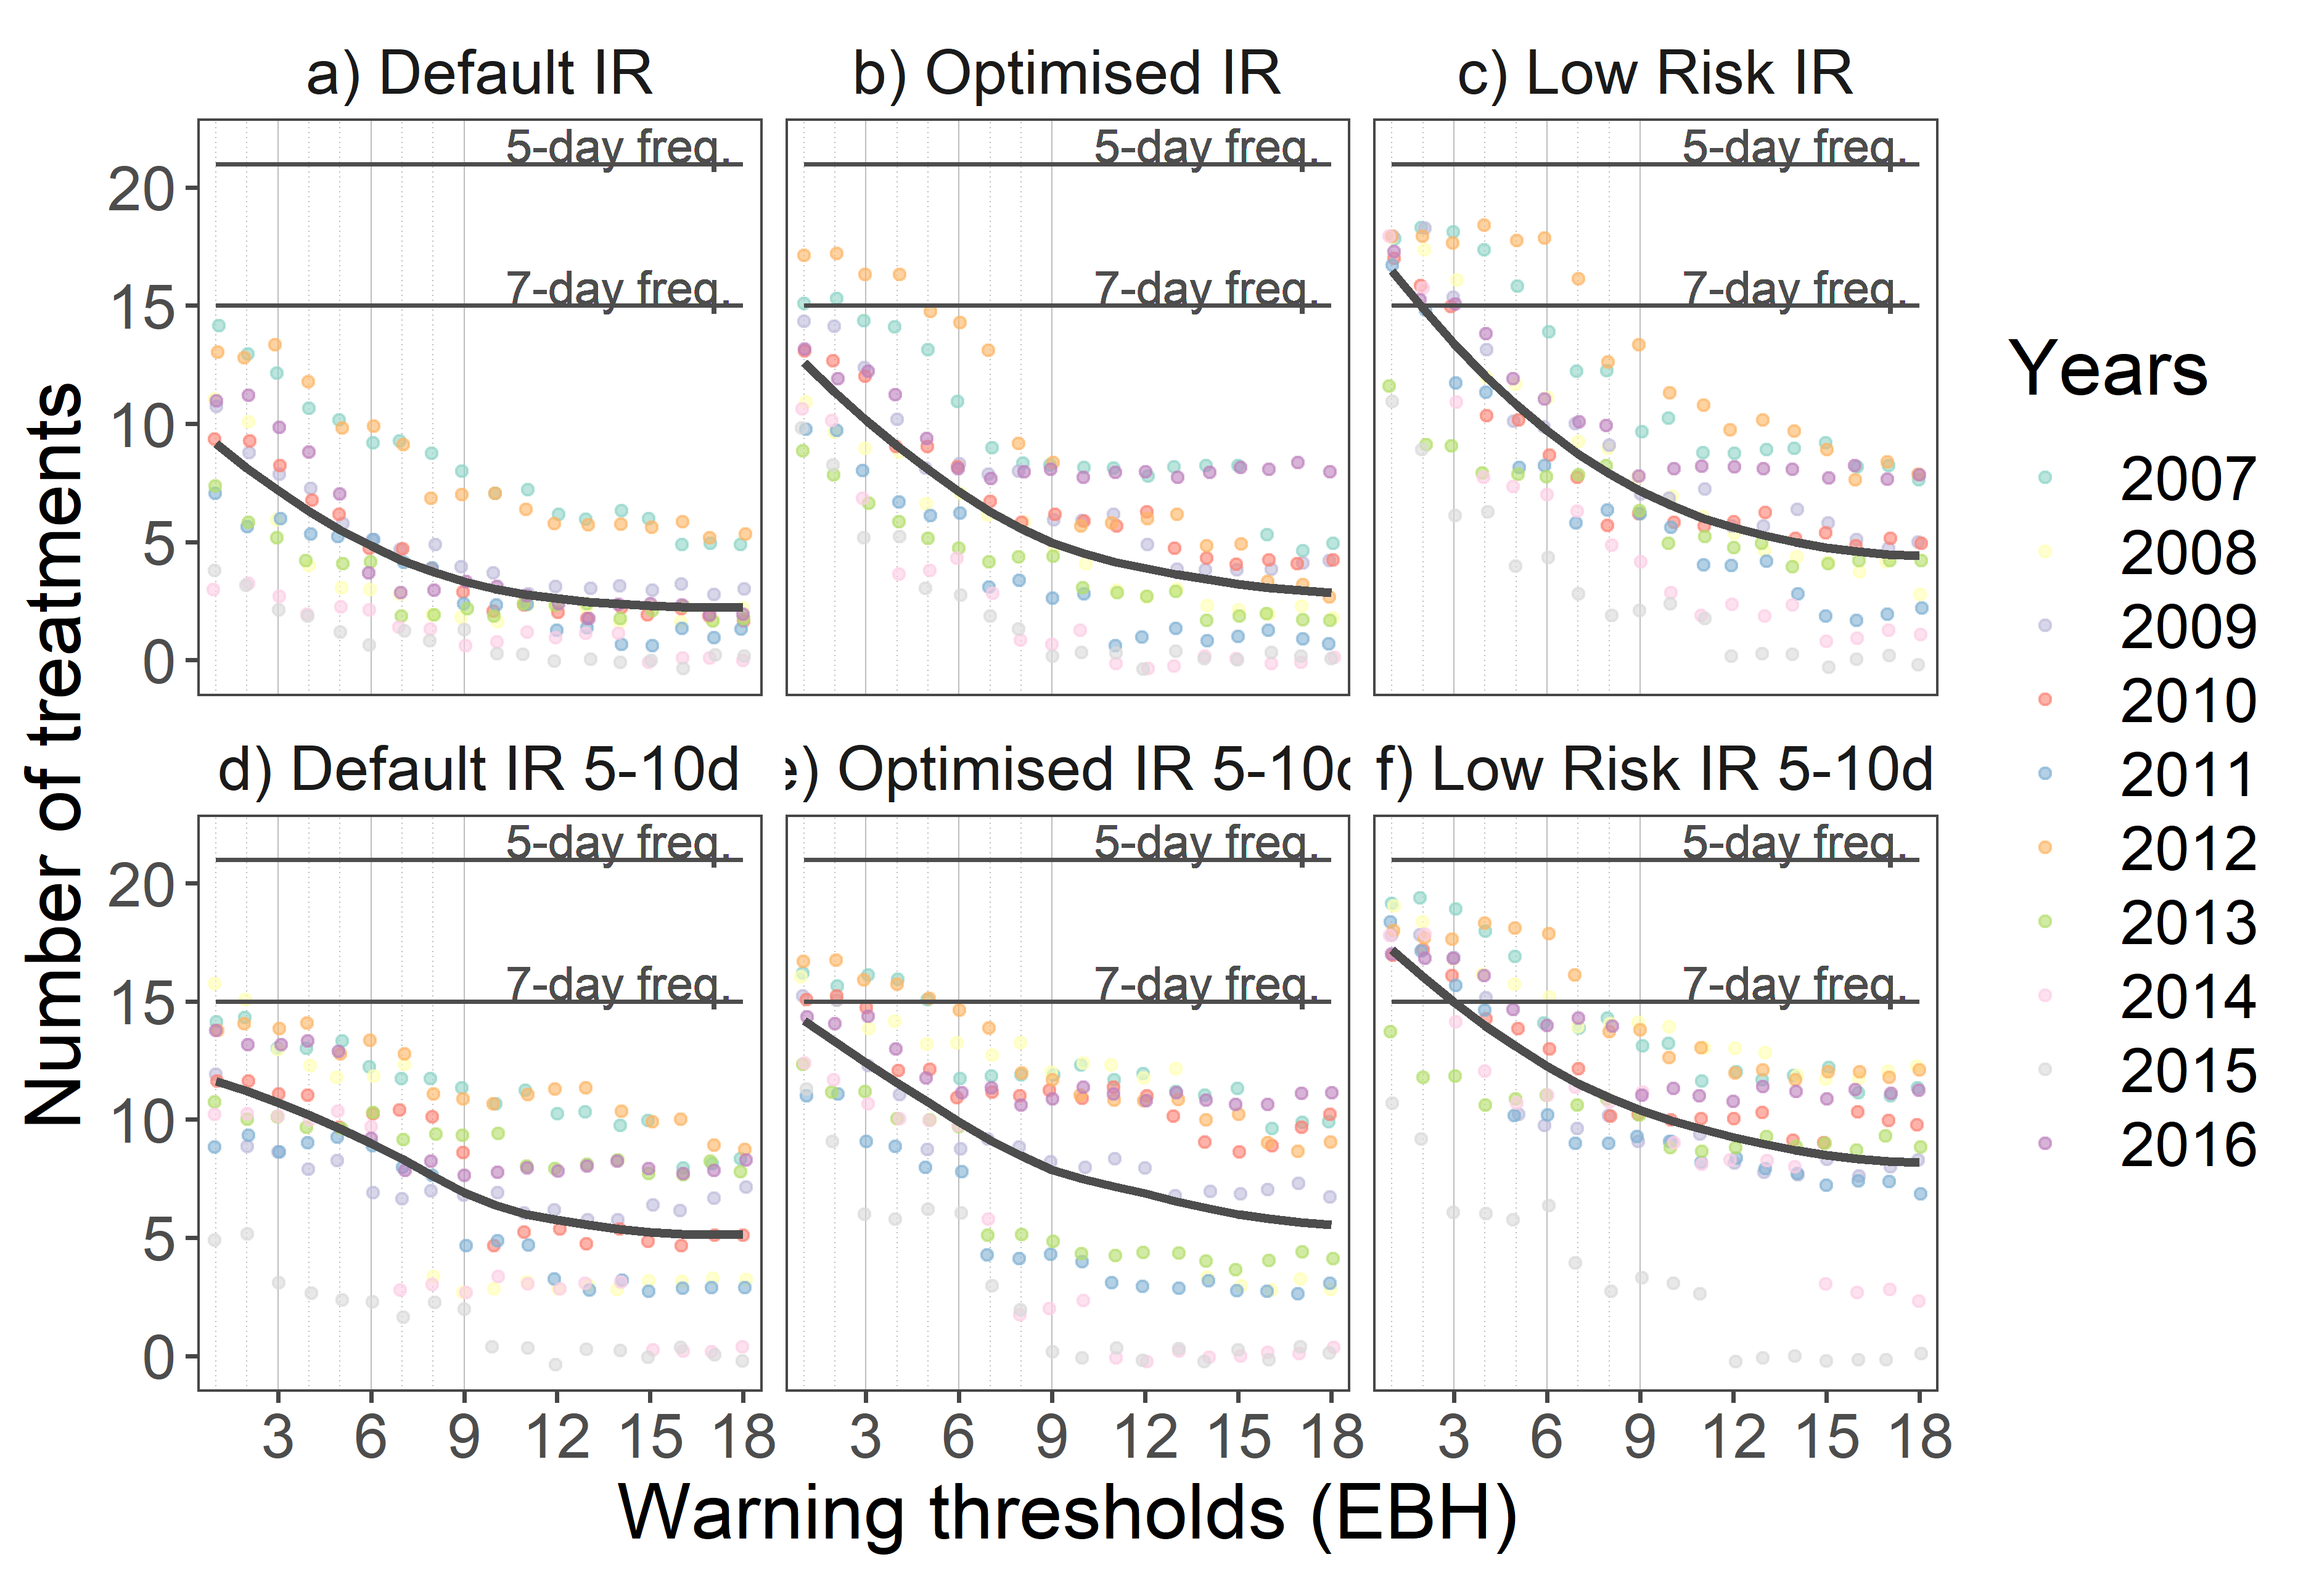
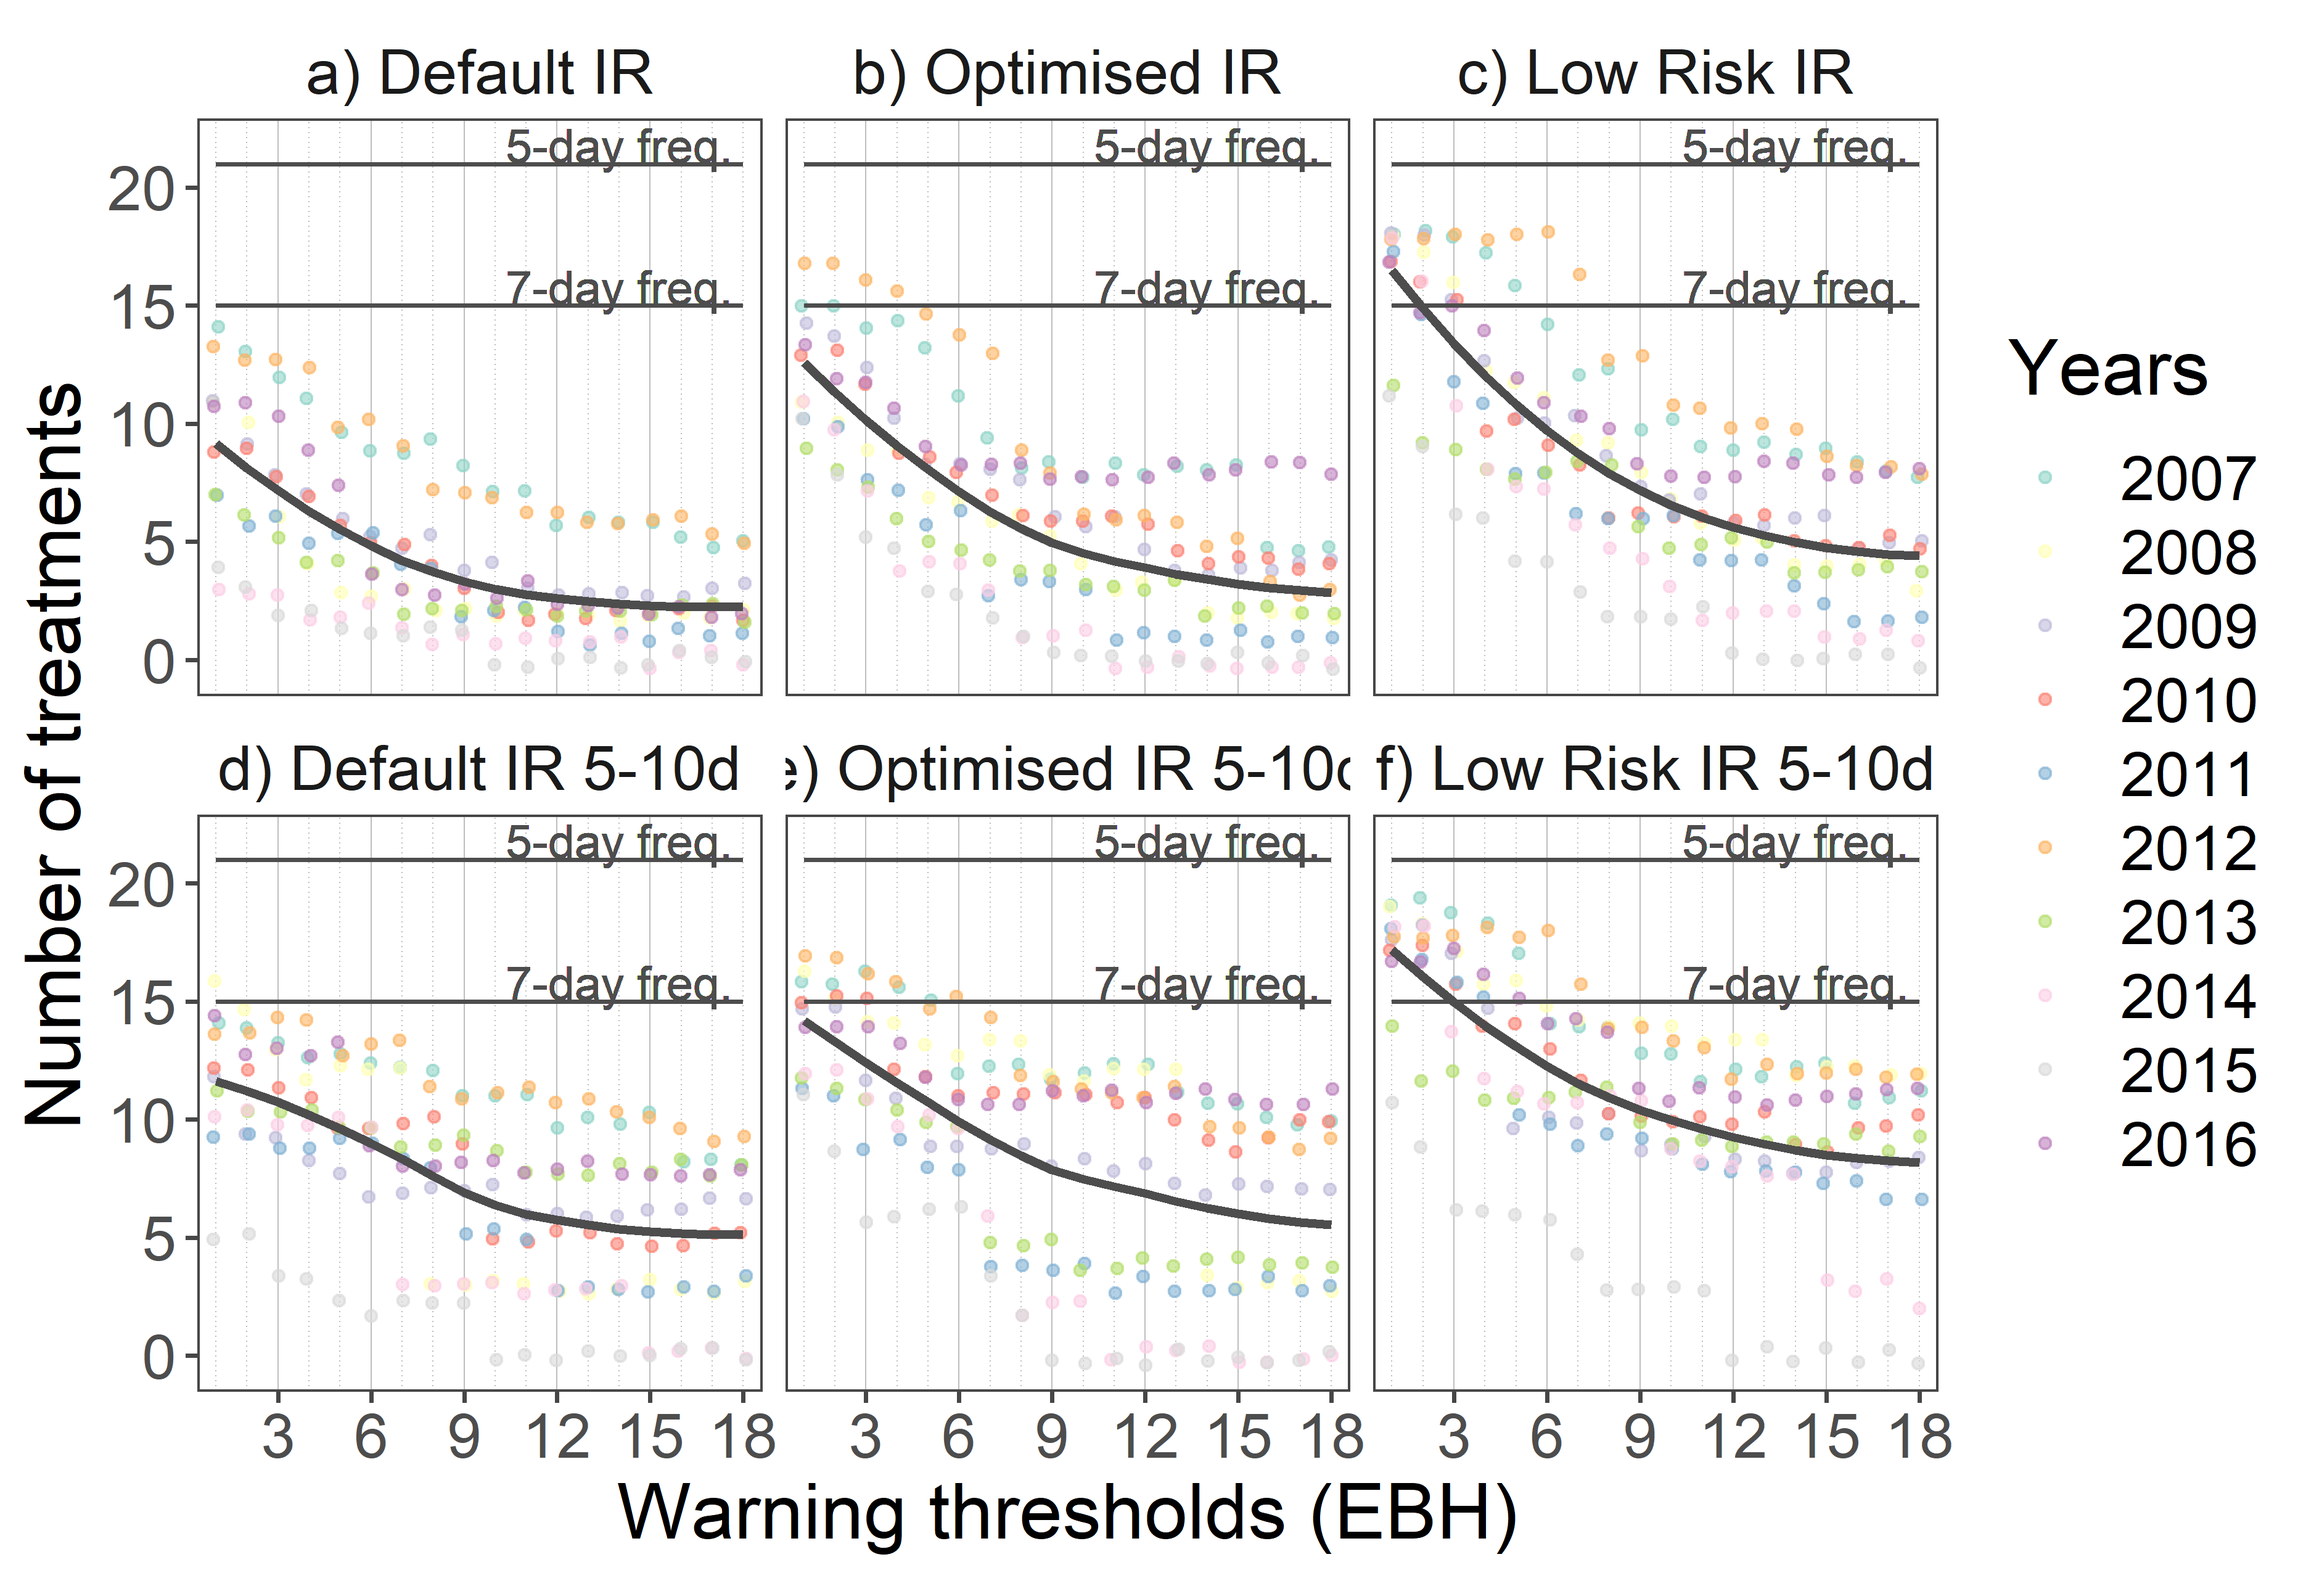
cleaning reviewers feedback

diff --git a/docs/FungicideTreatments.html b/docs/FungicideTreatments.html
@@ -841,7 +841,7 @@ clusterEvalQ(cl, library(&quot;tidyverse&quot;, quietly = TRUE, verbose = FALSE)
 },
 cl = cl)
 begin - Sys.time() #check the duration of the pcontrol_evaless in the console</code></pre>
-<pre><code>## Time difference of -10.58182 secs</code></pre>
+<pre><code>## Time difference of -4.947449 secs</code></pre>
 <pre class="r"><code>stopCluster(cl)</code></pre>
 <p>Melt the data frame.</p>
 <pre class="r"><code>control_eval_long &lt;-
@@ -947,13 +947,13 @@ control_eval_long %&gt;%
   mutate(Years = factor(year_var)) %&gt;%
   ggplot(., aes(factor(warning_thres), no_of_treatments)) +
   geom_vline(
-    xintercept = seq(1, 9, 1),
+    xintercept = seq(1, 18, 1),
     size = 0.2,
     color = &quot;gray&quot;,
     linetype = &quot;dotted&quot;
   ) +
   geom_vline(
-    xintercept = seq(3, 9, 3),
+    xintercept = seq(3, 15, 3),
     size = 0.2,
     color = &quot;gray&quot;,
     linetype = &quot;solid&quot;
@@ -1048,13 +1048,13 @@ control_eval_long %&gt;%
            colour = programme
          )) +
   geom_vline(
-    xintercept = seq(1, 9, 1),
+    xintercept = seq(1, 18, 1),
     size = 0.2,
     color = &quot;gray&quot;,
     linetype = &quot;dotted&quot;
   ) +
   geom_vline(
-    xintercept = seq(3, 9, 3),
+    xintercept = seq(3, 15, 3),
     size = 0.2,
     color = &quot;gray&quot;,
     linetype = &quot;solid&quot;
